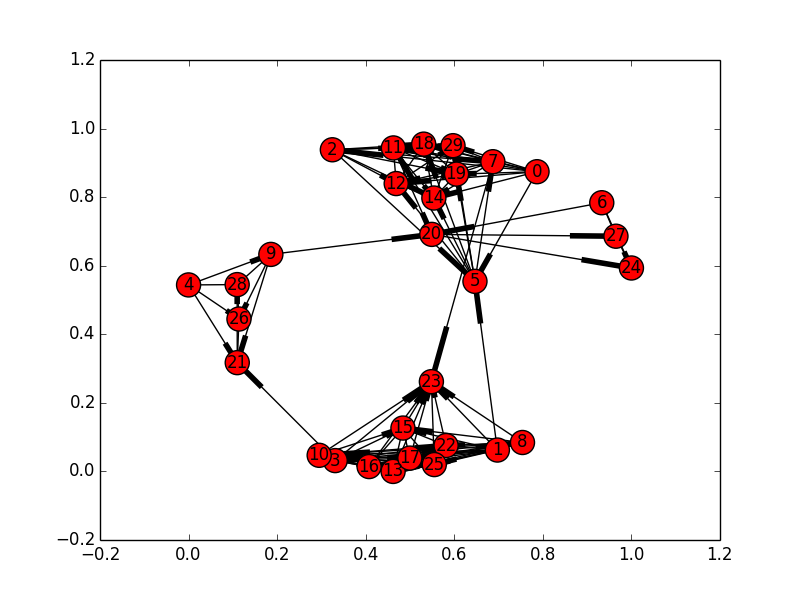
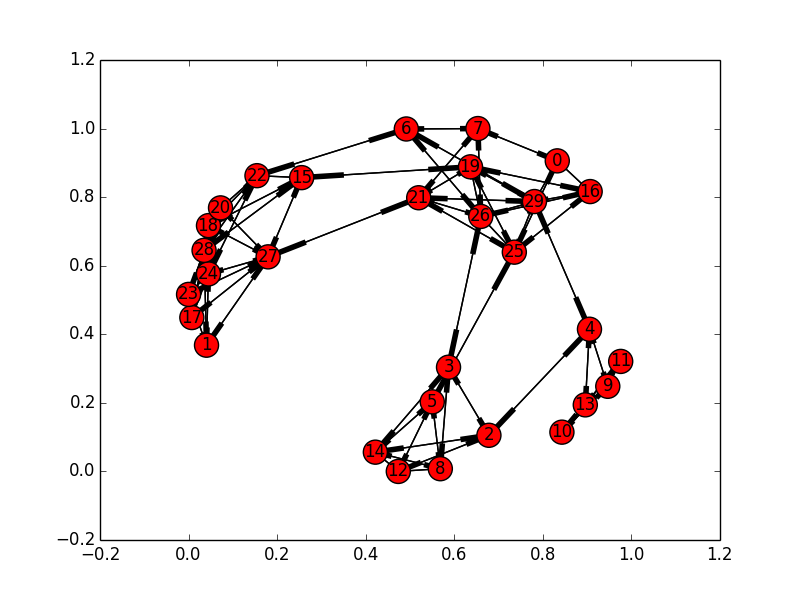
this version uses the LFR graph from the n-lasso paper

Changed region(s): [[0.2188, 0.18, 0.8125, 0.81], [0.6562, 0.63, 0.6875, 0.66], [0.3125, 0.63, 0.3438, 0.66]]

diff --git a/continous_try/options_v3.py b/continous_try/options_v3.py
@@ -77,9 +77,12 @@ class Network():
 				if (u,v) in self.edges_weight_dict: 
 					weights_neighborhood.append((self.edges_weight_dict[(u,v)]*self.edges_weight_dict[edge1]*self.edges_weight_dict[edge2])**0.333)
 		
+		weights_neighborhood.sort()
 		cc_state=sum(weights_neighborhood)/(deg_state*(deg_state-1))
 
-		return np.array([cc_state, state_neighbors.count(5),state_neighbors.count(1)])
+
+
+		return np.array([cc_state, weights_neighborhood[-1],weights_neighborhood[0]])
 
 
 class Q_estimator():
@@ -115,7 +118,7 @@ class q_nn(Q_estimator):
 		Q_estimator.__init__(self,state_size, action_size)
 		# These are hyper parameters for the Policy Gradient
 		self.discount_factor = 0.9
-		self.learning_rate = 0.01
+		self.learning_rate = 0.001
 		#self.hidden1 = 24
 		#self.hidden2 = 24
 
@@ -162,7 +165,8 @@ class q_nn(Q_estimator):
 
 		discounted_rewards = self.discount_rewards(self.rewards)
 		discounted_rewards -= np.mean(discounted_rewards)
-		discounted_rewards /= np.std(discounted_rewards)
+		if np.std(discounted_rewards)>0:
+			discounted_rewards /= np.std(discounted_rewards)
 
 		update_inputs = np.zeros((episode_length, self.state_size))
 		advantages = np.zeros((episode_length, self.action_size))
@@ -179,6 +183,7 @@ class q_nn(Q_estimator):
 		self.states.append(state_features)
 		self.rewards.append(reward)
 		self.actions.append(action)
+		print ' rewards inside append sample: ', self.rewards
 
 
 class q_table(Q_estimator):
@@ -251,12 +256,12 @@ def predict(x,network):
 		constraints.append({'type': 'eq', 'fun' : lambda x: np.array(x[node] - network.graph[node])})
 	constraints_tuple = tuple(constraints)
 
-	sol=optimize.minimize(l1_func, x,method='SLSQP', args=(network,),constraints=constraints_tuple, tol=1e-4)
+	sol=optimize.minimize(l1_func, x, method='SLSQP', args=(network,), constraints=constraints_tuple, tol=1e-3)
 	
 	print sol.x
 	return sol
 
-def generate_graph(num_nodes=30,num_clusters=4, w=(1,5),num_nodes_inside_cluster=140,num_nodes_outside_cluster=9):
+def generate_graph(num_nodes=30, num_clusters=4, w=(1,5), num_nodes_inside_cluster=140, num_nodes_outside_cluster=9):
 	
 	edges_list=[]
 	edges_weight_dict={}
@@ -282,14 +287,6 @@ def generate_graph(num_nodes=30,num_clusters=4, w=(1,5),num_nodes_inside_cluster
 
 
 
-	G = nx.DiGraph()
-	G.add_edges_from(edges_list)
-	pos = nx.spring_layout(G)
-	nx.draw_networkx(G)
-	plt.savefig('./network.png')
-	#plt.show()
-
-
 	with open('network_graph.csv', 'wb') as csvfile:
 		writer = csv.writer(csvfile, delimiter=',',
 					quoting=csv.QUOTE_MINIMAL)
@@ -311,17 +308,35 @@ def get_graph(network_graph='network_graph.csv',network_clust='network_clust.csv
 	edges_weight_dict={}
 	clust=[]
 
-	read_graph=pd.read_csv(network_graph, header=None)
-	
-	for i in xrange(len(read_graph)):
-		edges_weight_dict[(read_graph.ix[i, 0],read_graph.ix[i , 1])]=read_graph.ix[i , 2]
-	#print edges_weight_dict
-	
-	read_cluster=pd.read_csv(network_clust, header=None)
 
-	for i in xrange(len(read_cluster.ix[0,:])):
-		clust.append(read_cluster.ix[0,i])
+	if network_graph[-3:]=='csv':
 
+		read_graph=pd.read_csv(network_graph, header=None)
+		for i in xrange(len(read_graph)):
+			edges_weight_dict[(read_graph.ix[i, 0],read_graph.ix[i , 1])]=read_graph.ix[i , 2]
+
+		read_cluster=pd.read_table(network_clust,sep=',', header=None)
+		for i in xrange(len(read_cluster.ix[0,:])):
+			clust.append(read_cluster.ix[0,i])
+
+	elif network_graph[-3:]=='dat':
+
+		read_graph=pd.read_table(network_graph, sep='\s+', header=None)
+		for i in xrange(len(read_graph)):
+			edges_weight_dict[(read_graph.ix[i, 0]-1,read_graph.ix[i , 1]-1)]=np.round(read_graph.ix[i , 2])
+		
+		read_cluster=pd.read_table(network_clust, sep=',', header=None)
+		for i in xrange(len(read_cluster.ix[:,1])):
+			clust.append(read_cluster.ix[i,1])
+
+
+	edges_list=edges_weight_dict.keys()
+
+	G = nx.DiGraph()
+	G.add_edges_from(edges_list)
+	pos = nx.spring_layout(G)
+	nx.draw_networkx(G)
+	plt.savefig('./network.png')
 	
 	return (clust,edges_weight_dict)
 

diff --git a/continous_try/learning_algo_v3.py b/continous_try/learning_algo_v3.py
@@ -1,8 +1,8 @@
 # coding=utf-8
 
 '''
-This is the code for the state features represented as: ( CC(v), number of neighbrs with w=5, number of neighbrs with w=1 )
-with sampling 12 nodes out of 30 of 4 clusters, usually we discover all edges, and then, the empirical error is around 11.5
+This is the code for the state features represented as: ( CC(v), min weight of neighbours, max weight of neighbours )
+on the LFR graph from n-lasso paper
 we need to integrate with the minimizing TV costumized algorithm
 '''
 
@@ -13,8 +13,8 @@ from options_v3 import *
 #network = Network(generate_graph(30,4))
 
 # use the graph already created:
-network = Network (get_graph())
-
+network = Network (get_graph('/Users/sagite1/Desktop/SLPCode/LFR/c30_4/network.dat', '/Users/sagite1/Desktop/SLPCode/LFR/c30_4/community.dat'))
+#network = Network (get_graph())
 def learn():
 
 
@@ -65,11 +65,11 @@ def learn():
 		edge_to_sample=[]
 		for edge in discovered_edges:
 			if state_name in edge:
-				if network.edges_weight_dict[edge]==action or 5-network.edges_weight_dict[edge]==action:
+				if network.edges_weight_dict[edge]==action:
 					edge_to_sample.append(edge)
 					
 		if edge_to_sample==[]: 
-			#action=num_actions
+			action=num_actions
 			next_state=network.create_state(int(random.random()*num_nodes))
 		else:
 			#print edge_to_sample
@@ -97,7 +97,7 @@ def learn():
 		sol= predict(x,network)
 		tv=sol.fun
 
-		Q.append_sample(state_name,state_features, action, tv)
+		Q.append_sample(state_name,state_features, action, -tv)
 		Q.update_q(next_state)
 
 		print '\n&&&&&&&&&&&&&&&&&&& TV: %s &&&&&&&&&&&&&&&&&&&' %tv	
@@ -105,6 +105,9 @@ def learn():
 		print  'state name: %s, state features: %s action: %s, next state" %s '  %(state_name, state_features, action, next_state[0])
 		
 		state_name,state_features=next_state
+
+		print 'number of discovered nodes:', len(network.discovered_nodes) 
+
 		
 		#alpha*=alpha_decay
 		#exploration*=exploration_decay	
@@ -113,7 +116,6 @@ def learn():
 	####### end of epiosde:
 	#Q.model.save_weights("./save_model/signal_recovery_model.h5")
 	empirical_error=error(sol.x,network)
-	print 'lenght of discovered nodes:', len(network.discovered_nodes) 
 	print 'clust',network.graph
 	print 'x', x
 	print 'empirical error:',empirical_error
